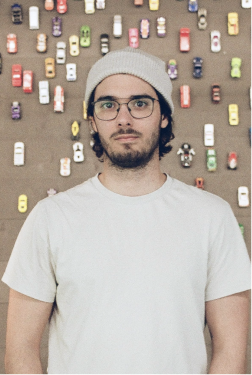
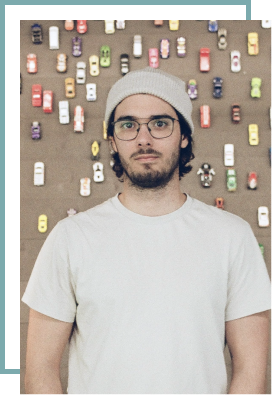
Before section three

diff --git a/index.html b/index.html
@@ -16,21 +16,66 @@
             <div class="navbar__logo">
                 <img src="src/images/Logo.svg" alt="" class="navbar__logo--image">
             </div>
+
             <div class="navbar__menu hidden">
                 <a href="" class="navbar__menu--about">00. About</a>
                 <a href="" class="navbar__menu--experience">01. Experience</a>
                 <a href="" class="navbar__menu--projects">10. Projects</a>
                 <a href="" class="navbar__menu--contact">11. Contact</a>
             </div>
+
             <div class="navbar__icons">
                 <i class="bi bi-list"></i>
                 <i class="bi bi-x-lg hide"></i>
             </div>
-        </div>
-    </div>
 
-    <div class="sectionOne">
+            
+        </div>
+
+        <div class="sectionOne grid-2-3 container">
+            <div class="sectionOne__left flex-column">
+                <div class="sectionOne__left--title1 title1 text-turquoise">// Hi, my name is</div>
+                <div class="sectionOne__left--title2 title2 text-white">Filip Pawłowski.</div>
+                <div class="sectionOne__left--title3-1 title3 text-gray">I am a</div>
+                <div class="sectionOne__left--title3-2 title3 text-gray">{" _beginner software developer " }</div>
+            </div>
+            <div class="sectionOne__right">
+    
+            </div>
+        </div>
+
+        <div class="sectionTwo grid-1-2 container">
+            <div class="sectionTwo__left flex-column">
+                <div class="sectionTwo__left--start common-start">
+                    &lt;about_me&gt;
+                </div>
+                <div class="sectionTwo__left--content common-text">
+                    //...Hi! I'm Filip and I'm currently working as a Test Engineer in regression testing. <br><br>
+    
+                    In my free time (there is not much of it :) I write code. I have mostly worked Python and I'm currently learning Java.<br><br>
         
+                    I've graduated Electronic and Computer Engineering on Wrocław University of Science and Technology. During that studies I've completed courses like:<br><br>
+        
+                    [<br>
+                        “Scientific and Engineering Programming”,<br>
+                        “Programming Systems and Environments”,<br>
+                        “Computer Networks”,<br>
+                        “Artificial Intelligence and Computer Vision”<br>
+                    ]<br><br>
+        
+                    Title of my Bachelor Thesis was "Design and implementation of waste recognition system" called "Clash".<br><br>
+        
+                    My biggest interest is AI and the problems that can be solved using it. I love traveling - especially across USA.<br><br>
+        
+                </div>
+                <div class="sectionTwo__left--end common-end">
+                    &lt;/about_me&gt;
+                </div>
+            </div>
+            <div class="sectionTwo__right flex-row">
+                <img src="src/images/filip.png" alt="" class="sectionTwo__right--photo responsive-image">
+            </div>
+        </div>
     </div>
 </body>
     <script src="src/main.js"></script>

diff --git a/src/styles/designSystem.css b/src/styles/designSystem.css
@@ -14,7 +14,11 @@
     --label: 44px;
     --ls: 5px;
 
-    --body: 14px;
+    --title1: 22px;
+    --title2: 44px;
+    --title3: 65px;
+
+    --body: 32px;
 
     --font: "VT323", monospace;
 
@@ -86,6 +90,25 @@
 }
 
 /**
+* ! Styles for text title
+**/
+
+.title1 {
+    font-family: var(--font);
+    font-size: var(--title1);
+}
+
+.title2 {
+    font-family: var(--font);
+    font-size: var(--title2);
+}
+
+.title3 {
+    font-family: var(--font);
+    font-size: var(--title3);
+}
+
+/**
 * ! Styles for hero
 **/
 
@@ -135,6 +158,57 @@
 .container {
     max-width: 1140px;
     margin: auto;
+    align-items: center;
+}
+
+.responsive-image {
+    max-width: 100%;
+    height: auto;
+}
+
+.grid-2-3{
+    display: grid;
+    grid-template-columns: 2fr 1fr;
+    padding: 40px 0;
+    gap: 25px;
+}
+
+.grid-1-2 {
+    display: grid;
+    grid-template-columns: 2fr 1fr;
+    padding: 40px 0;
+
+}
+
+.flex-column {
+    display: flex;
+    flex-direction: column;
+    gap: 5px;
+}
+
+.flex-row {
+    display: flex;
+    flex-direction: row;
+    align-items: center;
+    justify-content: center;
+}
+
+.common-start {
+    font-family: var(--font);
+    color: var(--turquoise-blue-color);
+    font-size: var(--h3);
+}
+
+.common-text {
+    font-family: var(--font);
+    color: var(--gray-color);
+    font-size: var(--body);
+}
+
+.common-end {
+    font-family: var(--font);
+    color: var(--turquoise-blue-color);
+    font-size: var(--h3);
 }
 
 @media (max-width: 1200px) {

diff --git a/src/styles/index.css b/src/styles/index.css
@@ -1,0 +1,24 @@
+/**
+* ! style rules for sectionOne
+*/
+
+.sectionOne__left--title3-2 {
+    line-height: 60px;
+}
+
+/**
+* ! style rules for sectionTwo
+*/
+
+.sectionTwo__left--text {
+    font-family: var(--font);
+    font-size: var(--body);
+    color: var(--gray-color);
+}
+
+.sectionTwo__left--content {
+    padding-left: 100px;
+    padding-top: 25px;
+}
+
+
